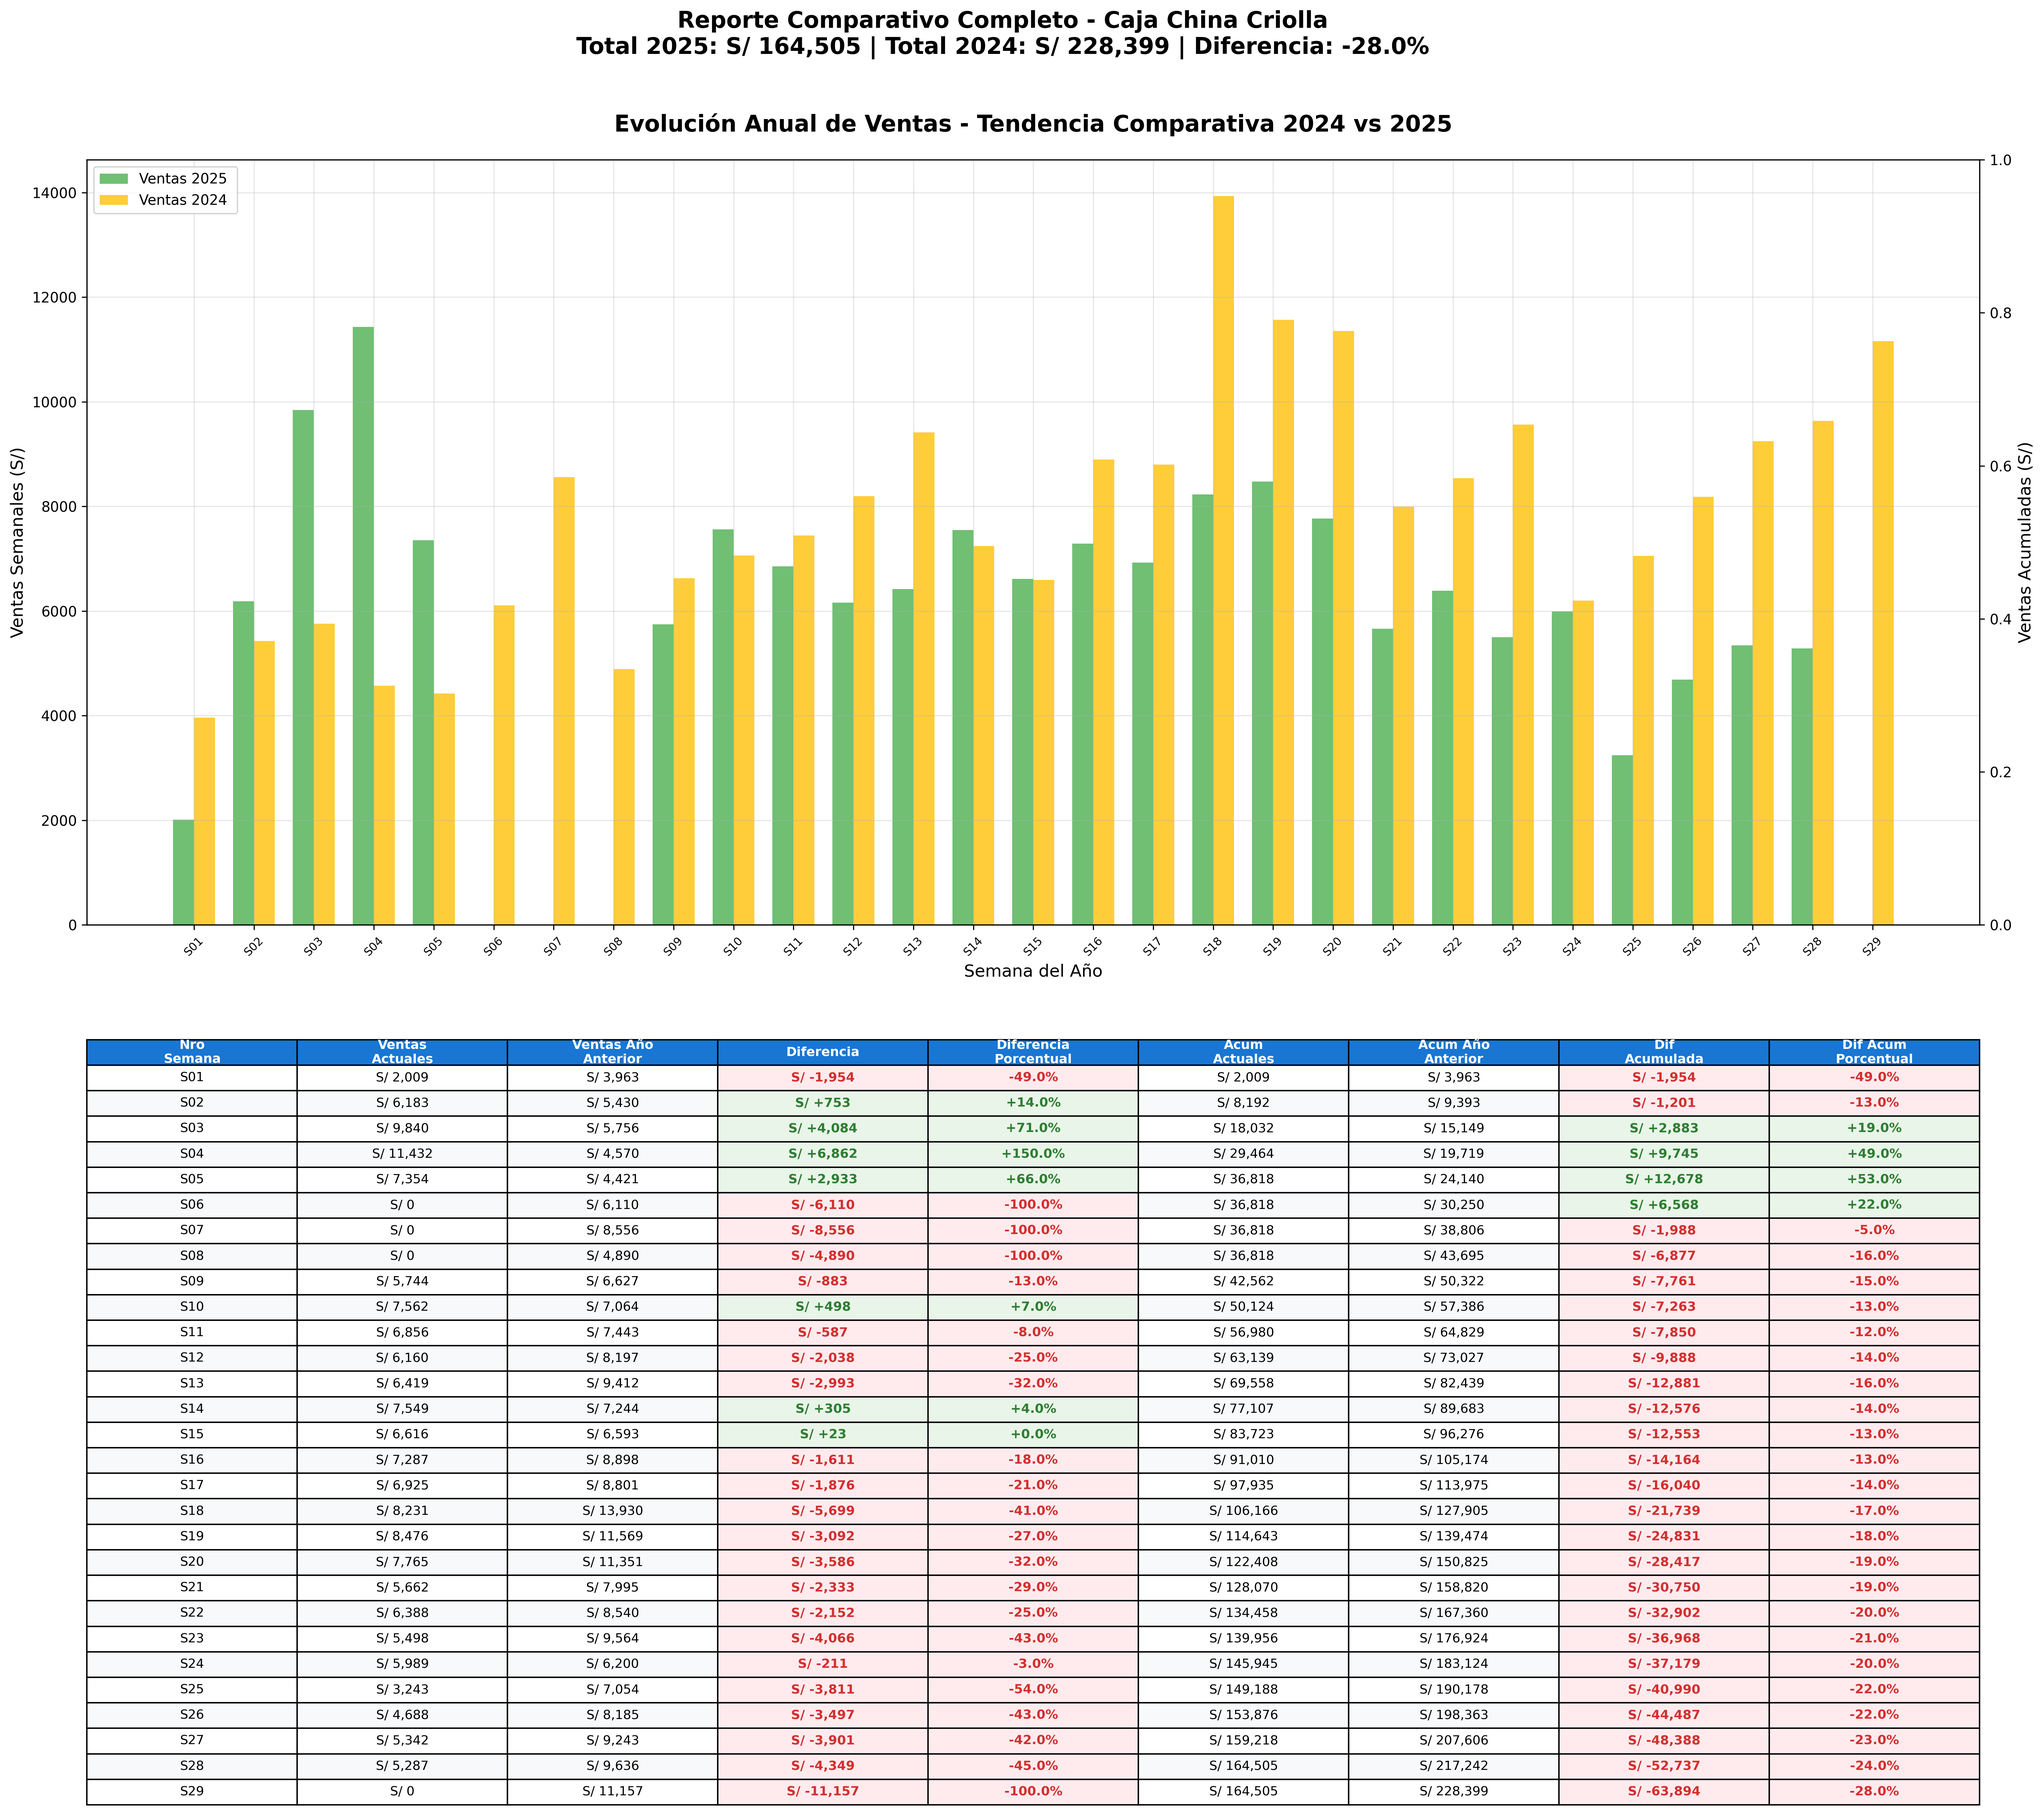
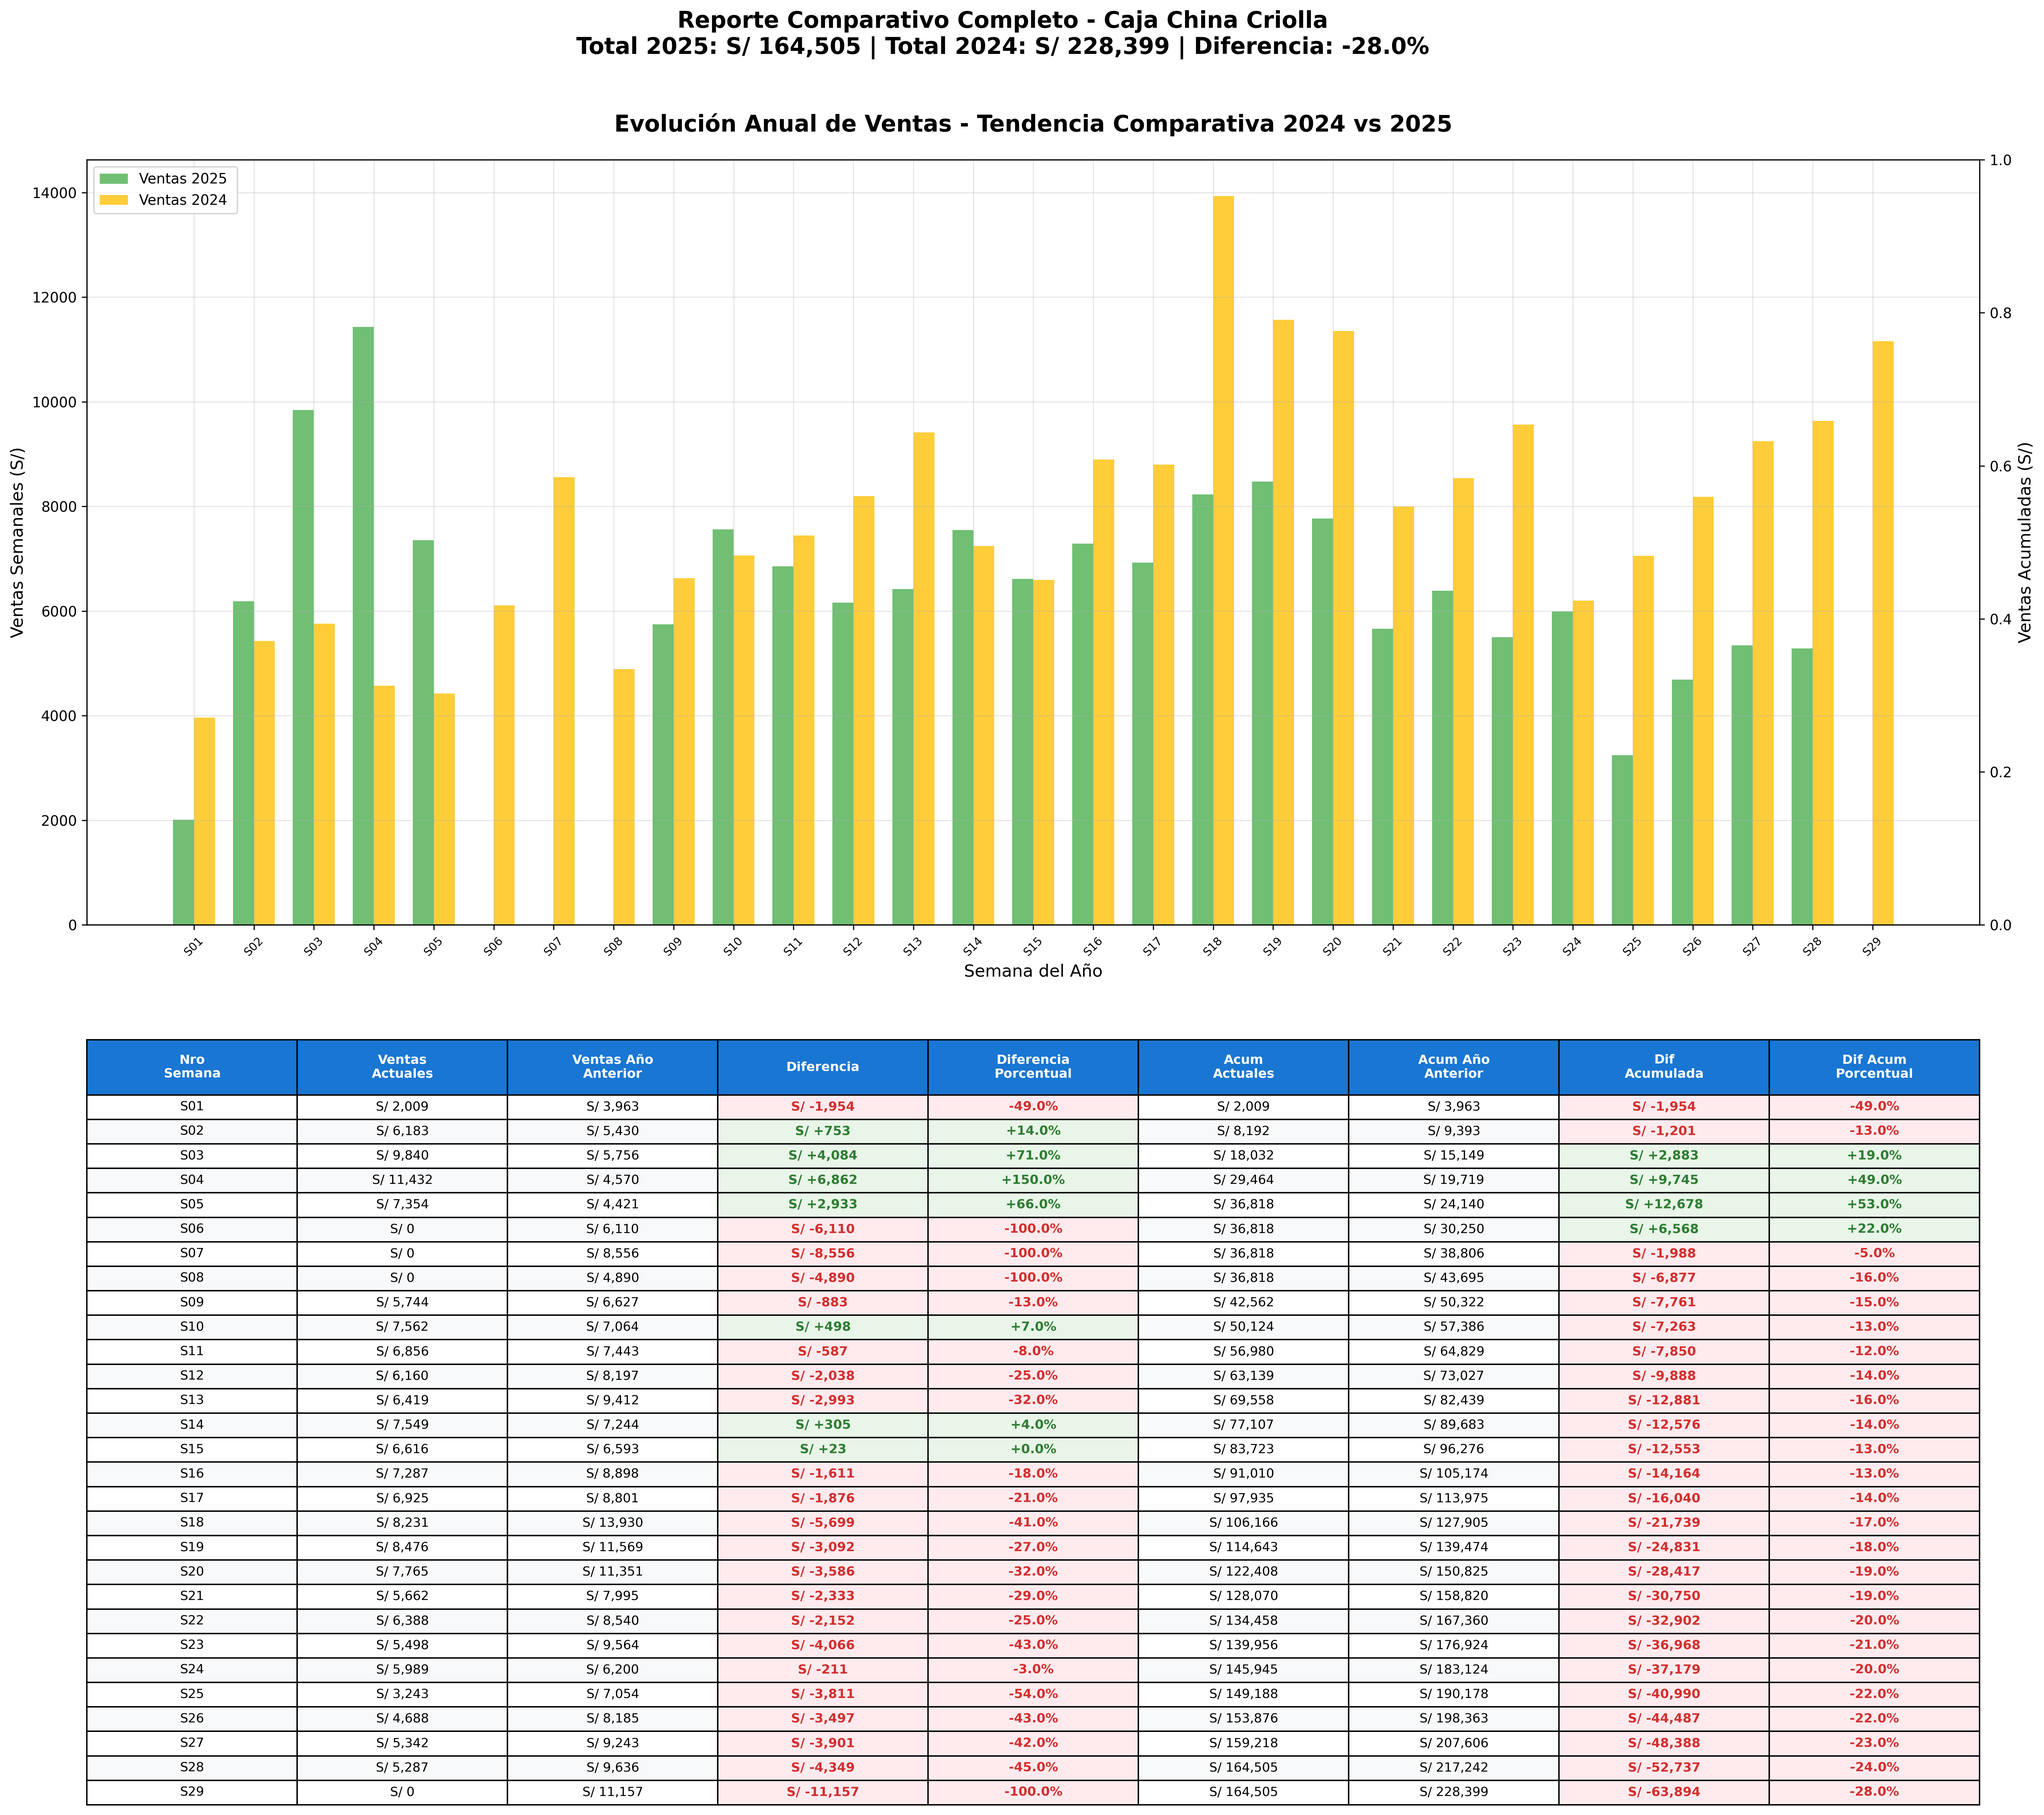
feat: Corrección de espacios en tabla de datos y generación de reportes #3

Changed region(s): [[0.0312, 0.5617, 0.9671, 0.9985]]

diff --git a/reporte3.py b/reporte3.py
@@ -384,6 +384,7 @@ def generar_reporte_comparativo_con_tabla(restaurante):
     for i in range(len(headers)):
         table[(0, i)].set_facecolor('#1976D2')
         table[(0, i)].set_text_props(weight='bold', color='white')
+        table[(0, i)].set_height(0.1)  # Aumentar altura de encabezados                       )
     
     # Colorear filas y diferencias
     for i in range(1, len(tabla_formateada) + 1):
@@ -492,7 +493,7 @@ def obtener_datos_anio_comparacion_real(restaurante_objetivo):
 if __name__ == "__main__":
     
     # Modo de ejecución - cambie según necesite
-    MODO = "indi"  # Opciones: "todos", "individual"
+    MODO = "todos"  # Opciones: "todos", "individual"
     
     if MODO == "todos":
         # Generar reporte de todos los locatarios
